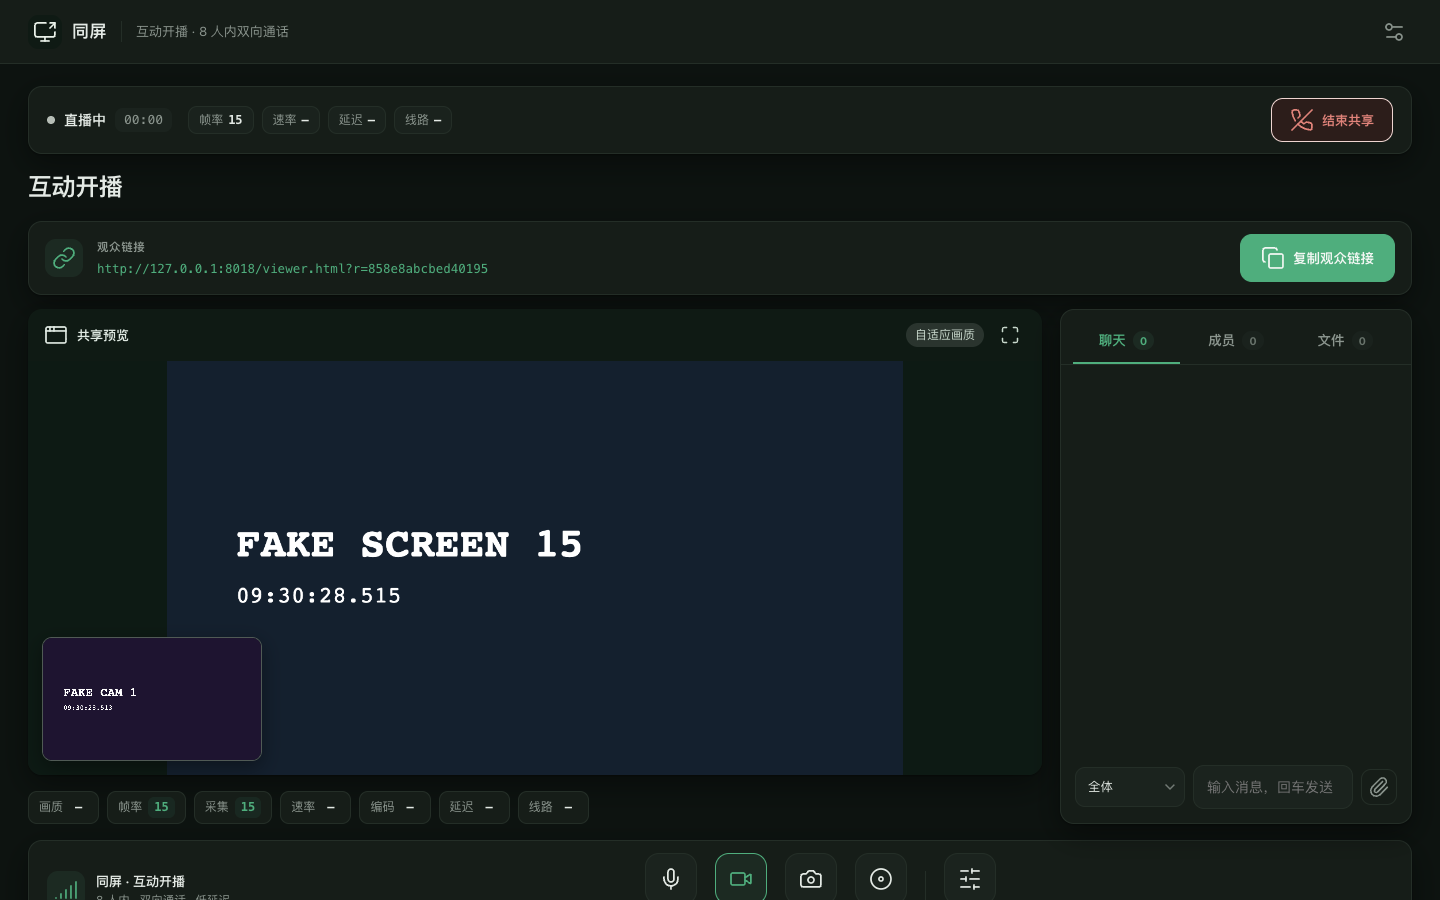
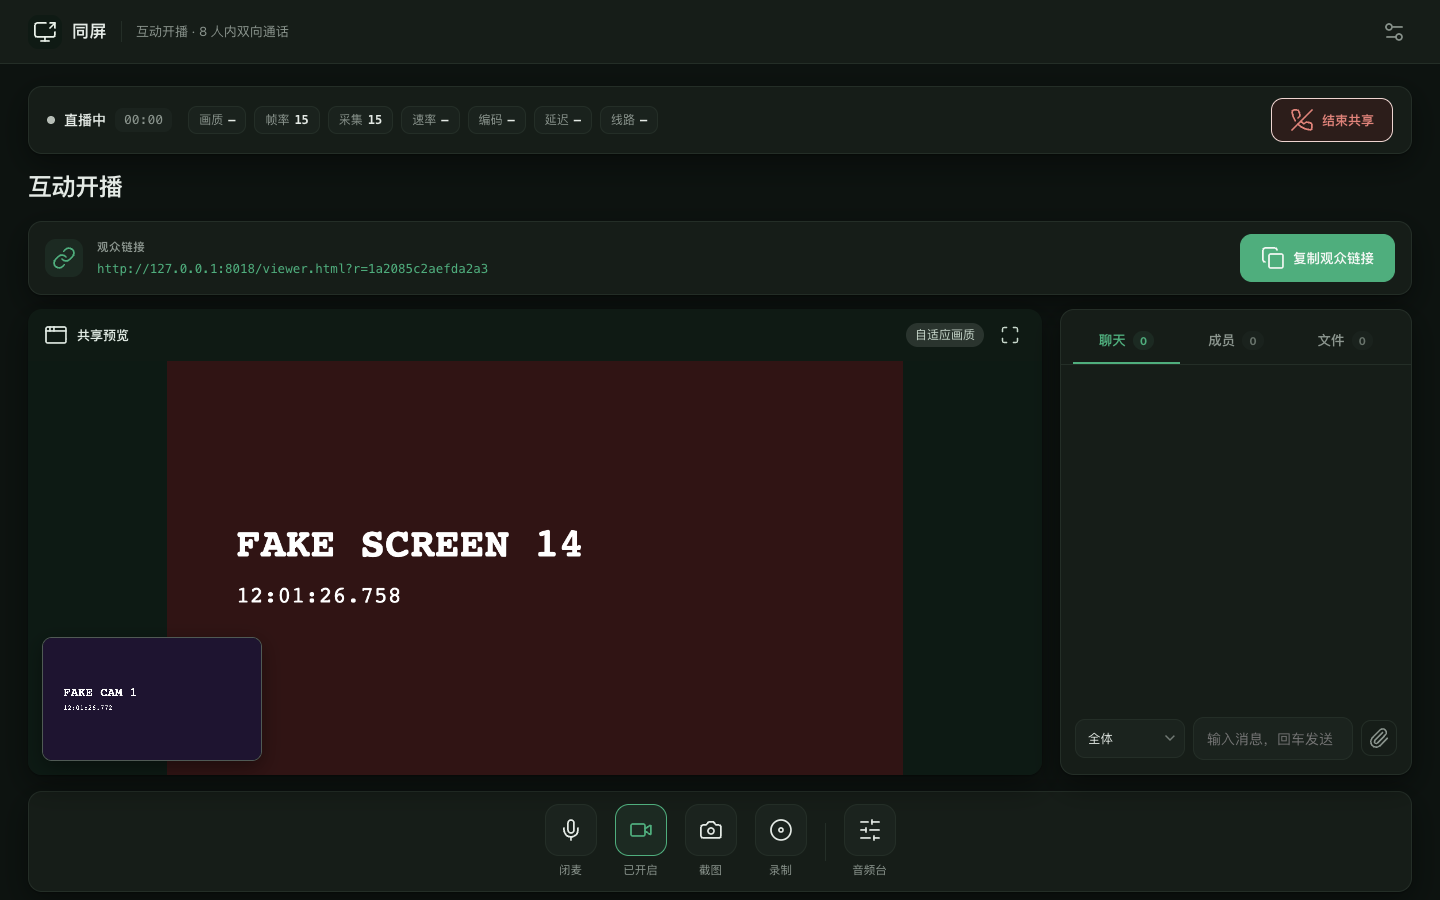
stats 全 7 项并入顶部状态栏，删除底部重复条；控制坞去左侧说明居中

diff --git a/web/host.html b/web/host.html
@@ -1,5 +1,5 @@
 <!DOCTYPE html>
-<html lang="zh-CN" data-build="09-27 17:27">
+<html lang="zh-CN" data-build="09-27 20:00">
 <head>
 <meta charset="utf-8">
 <meta name="viewport" content="width=device-width, initial-scale=1, viewport-fit=cover">
@@ -29,10 +29,13 @@
       <time id="stripClock" class="mono">00:00</time>
     </div>
     <div class="live-strip-stats">
-      <span class="strip-stat">帧率 <b id="stripFps">—</b></span>
-      <span class="strip-stat">速率 <b id="stripRate">—</b></span>
-      <span class="strip-stat">延迟 <b id="stripRtt">—</b></span>
-      <span class="strip-stat">线路 <b id="stripVia">—</b></span>
+      <span class="strip-stat">画质 <b id="stRes">—</b></span>
+      <span class="strip-stat">帧率 <b id="stFps">—</b></span>
+      <span class="strip-stat">采集 <b id="stCap">—</b></span>
+      <span class="strip-stat">速率 <b id="stRate">—</b></span>
+      <span class="strip-stat">编码 <b id="stEnc">—</b></span>
+      <span class="strip-stat">延迟 <b id="stRtt">—</b></span>
+      <span class="strip-stat">线路 <b id="stVia">—</b></span>
     </div>
     <button id="stopBtn" class="button danger" disabled><i data-lucide="phone-off"></i>结束共享</button>
   </div>
@@ -68,15 +71,6 @@
           <video id="camSelf" muted autoplay playsinline></video>
         </div>
       </section>
-      <div id="liveStats" style="display:none;margin-top:2px"><div class="statrow">
-        <span class="sitem">画质 <b id="stRes">—</b></span>
-        <span class="sitem">帧率 <b id="stFps">—</b></span>
-        <span class="sitem">采集 <b id="stCap">—</b></span>
-        <span class="sitem">速率 <b id="stRate">—</b></span>
-        <span class="sitem">编码 <b id="stEnc">—</b></span>
-        <span class="sitem">延迟 <b id="stRtt">—</b></span>
-        <span class="sitem">线路 <b id="stVia">—</b></span>
-      </div></div>
       <div id="camsRow"></div>
     </div>
     <aside class="side-panel">
@@ -129,10 +123,6 @@
     </aside>
   </section>
   <section class="controls">
-    <div class="connection-summary">
-      <span class="connection-icon"><i data-lucide="signal"></i></span>
-      <div><div class="connection-label">同屏 · 互动开播</div><div class="connection-meta">8 人内 · 双向通话 · 低延迟</div></div>
-    </div>
     <div class="control-dock">
       <div class="control-item"><button id="micBtn" aria-pressed="false" title="麦克风 · Alt+M" aria-label="麦克风开关"><i data-lucide="mic"></i></button><span id="micBtnLabel" class="control-label">麦克风</span></div>
       <div class="control-item"><button id="camBtn" disabled title="摄像头 · Alt+V" aria-label="摄像头开关"><i data-lucide="video"></i></button><span id="camBtnLabel" class="control-label">摄像头</span></div>
@@ -309,18 +299,14 @@ function setBadge(text, on) {
   if (stripDotEl) stripDotEl.className = 'status-dot' + (on ? '' : ' off');
 }
 // 状态条单值更新：数值变化时高亮闪一下
-const STAT_MIRROR = { stFps: 'stripFps', stRate: 'stripRate', stRtt: 'stripRtt' };
 function setStat(id, val) {
   const el = document.getElementById(id);
-  if (el && el.textContent !== String(val)) {
-    el.textContent = String(val);
-    el.classList.remove('flash');
-    void el.offsetWidth;
-    el.classList.add('flash');
-    setTimeout(() => el.classList.remove('flash'), 650);
-  }
-  const mirrorEl = document.getElementById(STAT_MIRROR[id] || '');
-  if (mirrorEl && mirrorEl.textContent !== String(val)) mirrorEl.textContent = String(val);
+  if (!el || el.textContent === String(val)) return;
+  el.textContent = String(val);
+  el.classList.remove('flash');
+  void el.offsetWidth;
+  el.classList.add('flash');
+  setTimeout(() => el.classList.remove('flash'), 650);
 }
 
 // ---------- 测试用假源（?fake=1） ----------
@@ -424,7 +410,6 @@ async function start() {
 
     $('preview').srcObject = screenStream;
     $('preview').style.display = 'block';
-    $('liveStats').style.display = 'block';
     liveSince = Date.now(); // 顶部状态栏计时起点
     attachMyMeter(micSendTrack || micTrack); // 电平条显示推子后的实际发送电平
     $('micRow').style.display = 'flex';
@@ -474,7 +459,6 @@ function stop() {
   while ($('chatTarget').options.length > 1) $('chatTarget').remove(1);
   $('micRow').style.display = 'none';
   $('speakerRow').style.display = 'none';
-  $('liveStats').style.display = 'none';
   $('viewerList').innerHTML = '<p id="viewerEmpty">暂无观众</p>';
   liveSince = null;
   myMeterBuf = null;
@@ -1197,11 +1181,6 @@ setInterval(async () => {
     if (viaEl) {
       viaEl.textContent = viaTxt;
       viaEl.className = viaTxt.includes('中继') ? 'warn' : viaTxt.includes('直连') ? 'good' : '';
-    }
-    const stripViaEl = document.getElementById('stripVia');
-    if (stripViaEl) {
-      stripViaEl.textContent = viaTxt;
-      stripViaEl.className = viaTxt.includes('中继') ? 'warn' : viaTxt.includes('直连') ? 'good' : '';
     }
   }
   lastSent = vidOut;

diff --git a/web/viewer.html b/web/viewer.html
@@ -1,5 +1,5 @@
 <!DOCTYPE html>
-<html lang="zh-CN" data-build="09-27 17:27">
+<html lang="zh-CN" data-build="09-27 20:00">
 <head>
 <meta charset="utf-8">
 <meta name="viewport" content="width=device-width, initial-scale=1, maximum-scale=1, user-scalable=no, viewport-fit=cover">

diff --git a/tools/rebuild-2026-09-27.py b/tools/rebuild-2026-09-27.py
@@ -189,44 +189,6 @@ function sendChat() {"""),
     lastStatsTs = 0;
     return;
   }"""),
-    ("""function setStat(id, val) {
-  const el = document.getElementById(id);
-  if (!el || el.textContent === String(val)) return;
-  el.textContent = String(val);
-  el.classList.remove('flash');
-  void el.offsetWidth;
-  el.classList.add('flash');
-  setTimeout(() => el.classList.remove('flash'), 650);
-}""",
-     """const STAT_MIRROR = { stFps: 'stripFps', stRate: 'stripRate', stRtt: 'stripRtt' };
-function setStat(id, val) {
-  const el = document.getElementById(id);
-  if (el && el.textContent !== String(val)) {
-    el.textContent = String(val);
-    el.classList.remove('flash');
-    void el.offsetWidth;
-    el.classList.add('flash');
-    setTimeout(() => el.classList.remove('flash'), 650);
-  }
-  const mirrorEl = document.getElementById(STAT_MIRROR[id] || '');
-  if (mirrorEl && mirrorEl.textContent !== String(val)) mirrorEl.textContent = String(val);
-}"""),
-    # P22 stVia 镜像（线路色同步）
-    ("""    const viaEl = document.getElementById('stVia');
-    if (viaEl) {
-      viaEl.textContent = viaTxt;
-      viaEl.className = viaTxt.includes('中继') ? 'warn' : viaTxt.includes('直连') ? 'good' : '';
-    }""",
-     """    const viaEl = document.getElementById('stVia');
-    if (viaEl) {
-      viaEl.textContent = viaTxt;
-      viaEl.className = viaTxt.includes('中继') ? 'warn' : viaTxt.includes('直连') ? 'good' : '';
-    }
-    const stripViaEl = document.getElementById('stripVia');
-    if (stripViaEl) {
-      stripViaEl.textContent = viaTxt;
-      stripViaEl.className = viaTxt.includes('中继') ? 'warn' : viaTxt.includes('直连') ? 'good' : '';
-    }"""),
     # P19 开播成功 → 舞台标签切"直播中"（锚定真实采集流，不随瞬时提示漂移；
     # sourceTag 不挂 setBadge——摄像头等瞬时提示会把"直播中"打回"待开播"）
     ("""    $('preview').srcObject = screenStream;
@@ -234,13 +196,11 @@ function setStat(id, val) {
     $('liveStats').style.display = 'block';""",
      """    $('preview').srcObject = screenStream;
     $('preview').style.display = 'block';
-    $('liveStats').style.display = 'block';
     liveSince = Date.now(); // 顶部状态栏计时起点"""),
     # P20 结束 → 舞台标签复位 + 观众列表重置为空态（新版 stop 后可再开一场）+ 计时清零
     ("""  $('liveStats').style.display = 'none';
   myMeterBuf = null;""",
-     """  $('liveStats').style.display = 'none';
-  $('viewerList').innerHTML = '<p id="viewerEmpty">暂无观众</p>';
+     """  $('viewerList').innerHTML = '<p id="viewerEmpty">暂无观众</p>';
   liveSince = null;
   myMeterBuf = null;"""),
     # P16 观众行状态中文化（connectionState 英文 → 中文）
@@ -452,10 +412,13 @@ HOST_BODY = """<header class="topbar">
       <time id="stripClock" class="mono">00:00</time>
     </div>
     <div class="live-strip-stats">
-      <span class="strip-stat">帧率 <b id="stripFps">—</b></span>
-      <span class="strip-stat">速率 <b id="stripRate">—</b></span>
-      <span class="strip-stat">延迟 <b id="stripRtt">—</b></span>
-      <span class="strip-stat">线路 <b id="stripVia">—</b></span>
+      <span class="strip-stat">画质 <b id="stRes">—</b></span>
+      <span class="strip-stat">帧率 <b id="stFps">—</b></span>
+      <span class="strip-stat">采集 <b id="stCap">—</b></span>
+      <span class="strip-stat">速率 <b id="stRate">—</b></span>
+      <span class="strip-stat">编码 <b id="stEnc">—</b></span>
+      <span class="strip-stat">延迟 <b id="stRtt">—</b></span>
+      <span class="strip-stat">线路 <b id="stVia">—</b></span>
     </div>
     <button id="stopBtn" class="button danger" disabled><i data-lucide="phone-off"></i>结束共享</button>
   </div>
@@ -491,15 +454,6 @@ HOST_BODY = """<header class="topbar">
           <video id="camSelf" muted autoplay playsinline></video>
         </div>
       </section>
-      <div id="liveStats" style="display:none;margin-top:2px"><div class="statrow">
-        <span class="sitem">画质 <b id="stRes">—</b></span>
-        <span class="sitem">帧率 <b id="stFps">—</b></span>
-        <span class="sitem">采集 <b id="stCap">—</b></span>
-        <span class="sitem">速率 <b id="stRate">—</b></span>
-        <span class="sitem">编码 <b id="stEnc">—</b></span>
-        <span class="sitem">延迟 <b id="stRtt">—</b></span>
-        <span class="sitem">线路 <b id="stVia">—</b></span>
-      </div></div>
       <div id="camsRow"></div>
     </div>
     <aside class="side-panel">
@@ -552,10 +506,6 @@ HOST_BODY = """<header class="topbar">
     </aside>
   </section>
   <section class="controls">
-    <div class="connection-summary">
-      <span class="connection-icon"><i data-lucide="signal"></i></span>
-      <div><div class="connection-label">同屏 · 互动开播</div><div class="connection-meta">8 人内 · 双向通话 · 低延迟</div></div>
-    </div>
     <div class="control-dock">
       <div class="control-item"><button id="micBtn" aria-pressed="false" title="麦克风 · Alt+M" aria-label="麦克风开关"><i data-lucide="mic"></i></button><span id="micBtnLabel" class="control-label">麦克风</span></div>
       <div class="control-item"><button id="camBtn" disabled title="摄像头 · Alt+V" aria-label="摄像头开关"><i data-lucide="video"></i></button><span id="camBtnLabel" class="control-label">摄像头</span></div>

diff --git a/tools/e2e-2026-09-27.py b/tools/e2e-2026-09-27.py
@@ -48,10 +48,10 @@ with sync_playwright() as p:
     pg_host.click('#copyBtn')
     pg_host.wait_for_timeout(400)
     check('复制反馈', '已复制' in pg_host.locator('#copyBtnLabel').inner_text())
-    check('stats 条可见', pg_host.locator('#liveStats').is_visible())
+    check('顶部 7 项数据齐活', pg_host.locator('#liveStrip .strip-stat').count() == 7 and pg_host.locator('#liveStats').count() == 0)
     check('顶部状态栏常驻（状态+帧率+结束共享在顶部）', pg_host.locator('#liveStrip').is_visible() and pg_host.locator('#stripState').inner_text() == '直播中' and pg_host.locator('#liveStrip #stopBtn').is_visible())
     pg_host.wait_for_timeout(2500)
-    check('顶部采集帧率开播即有数', pg_host.locator('#stripFps').inner_text() not in ('—', '-', ''), pg_host.locator('#stripFps').inner_text())
+    check('顶部采集帧率开播即有数', pg_host.locator('#stFps').inner_text() not in ('—', '-', ''), pg_host.locator('#stFps').inner_text())
     check('顶部计时走字', pg_host.locator('#stripClock').inner_text() != '00:00', pg_host.locator('#stripClock').inner_text())
     # 录制按钮
     pg_host.click('#recBtn')
@@ -82,7 +82,7 @@ with sync_playwright() as p:
     pg_host.wait_for_timeout(400)
     check('主播看到观众行', '测试观众' in pg_host.locator('#viewerList').inner_text())
     pg_host.wait_for_timeout(2500)
-    check('有观众后顶部帧率持续', pg_host.locator('#stripFps').inner_text() not in ('—', '', '-'), pg_host.locator('#stripFps').inner_text())
+    check('有观众后顶部帧率持续', pg_host.locator('#stFps').inner_text() not in ('—', '', '-'), pg_host.locator('#stFps').inner_text())
     pg_host.screenshot(path=str(OUT / '02b-host-people.png'))
 
     # ---------- 聊天双向 ----------
